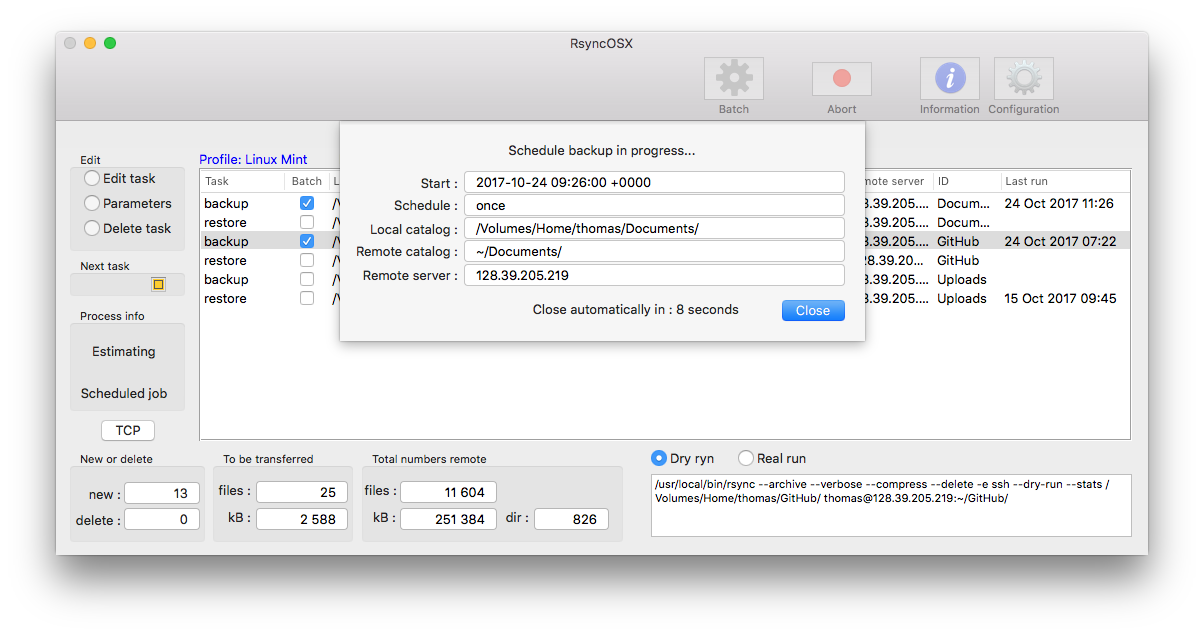
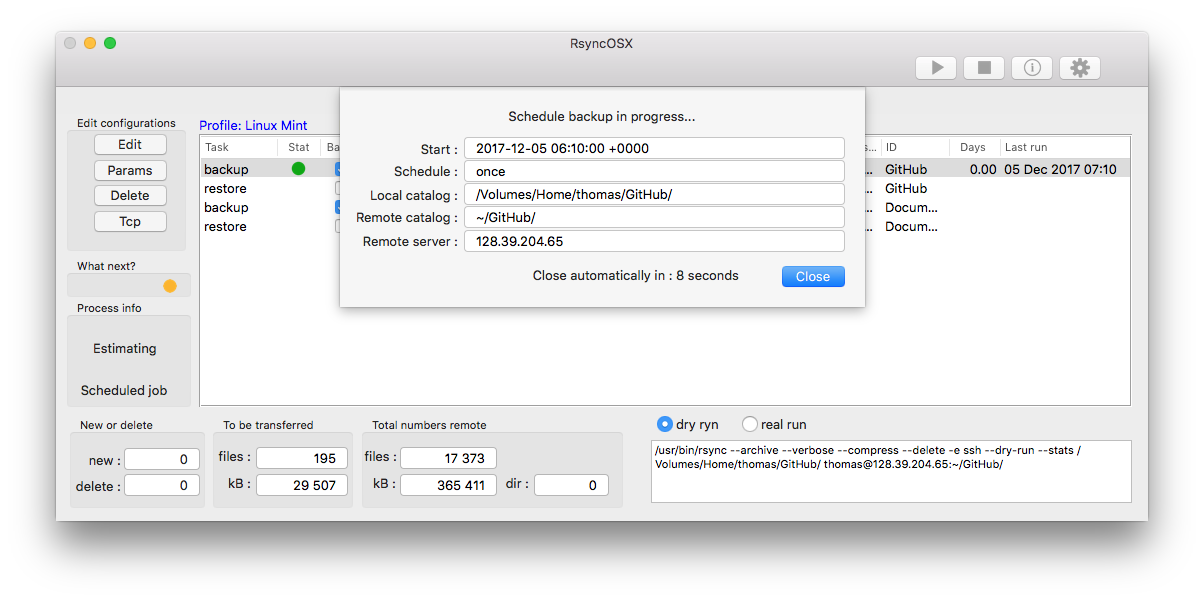
updates

diff --git a/docs/ScheduleTasks.md b/docs/ScheduleTasks.md
@@ -18,9 +18,7 @@ Select task (row), set the start date and time and select the schedule (once, da
 
 The stack is a reference only to a configuration (by a hidden key). The user can change anything regarding a configuration up to the moment the task is executed by schedule. If a configuration is deleted all scheduled tasks connected to configuration is deleted as well.
 
-When the first scheduled task is _completed_, RsyncOSX checks the next top element of stack.
-
-In example the schedule *once* is selected. First scheduled backup is scheduled in about two minutes.
+When the first scheduled task is _completed_, RsyncOSX checks the next top element of stack. In example the schedule *once* is selected. First scheduled backup is scheduled in one hour.
 ![Main view](screenshots/master/scheduling/schedule1.png)
 ![Main view](screenshots/master/scheduling/schedule2.png)
 Another task is scheduled as well. The first scheduled to be executed is marked green.
